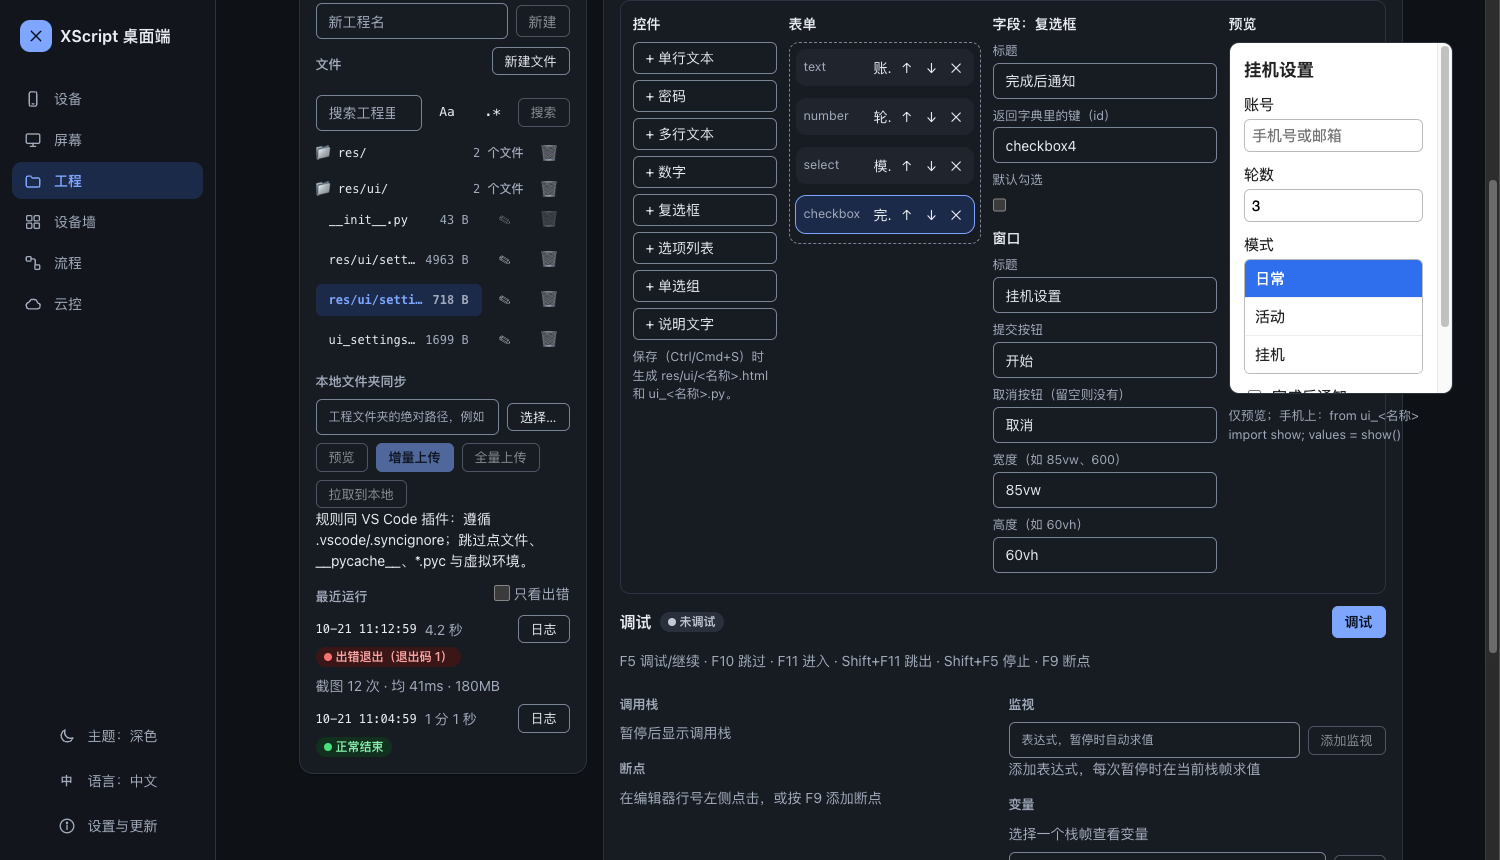
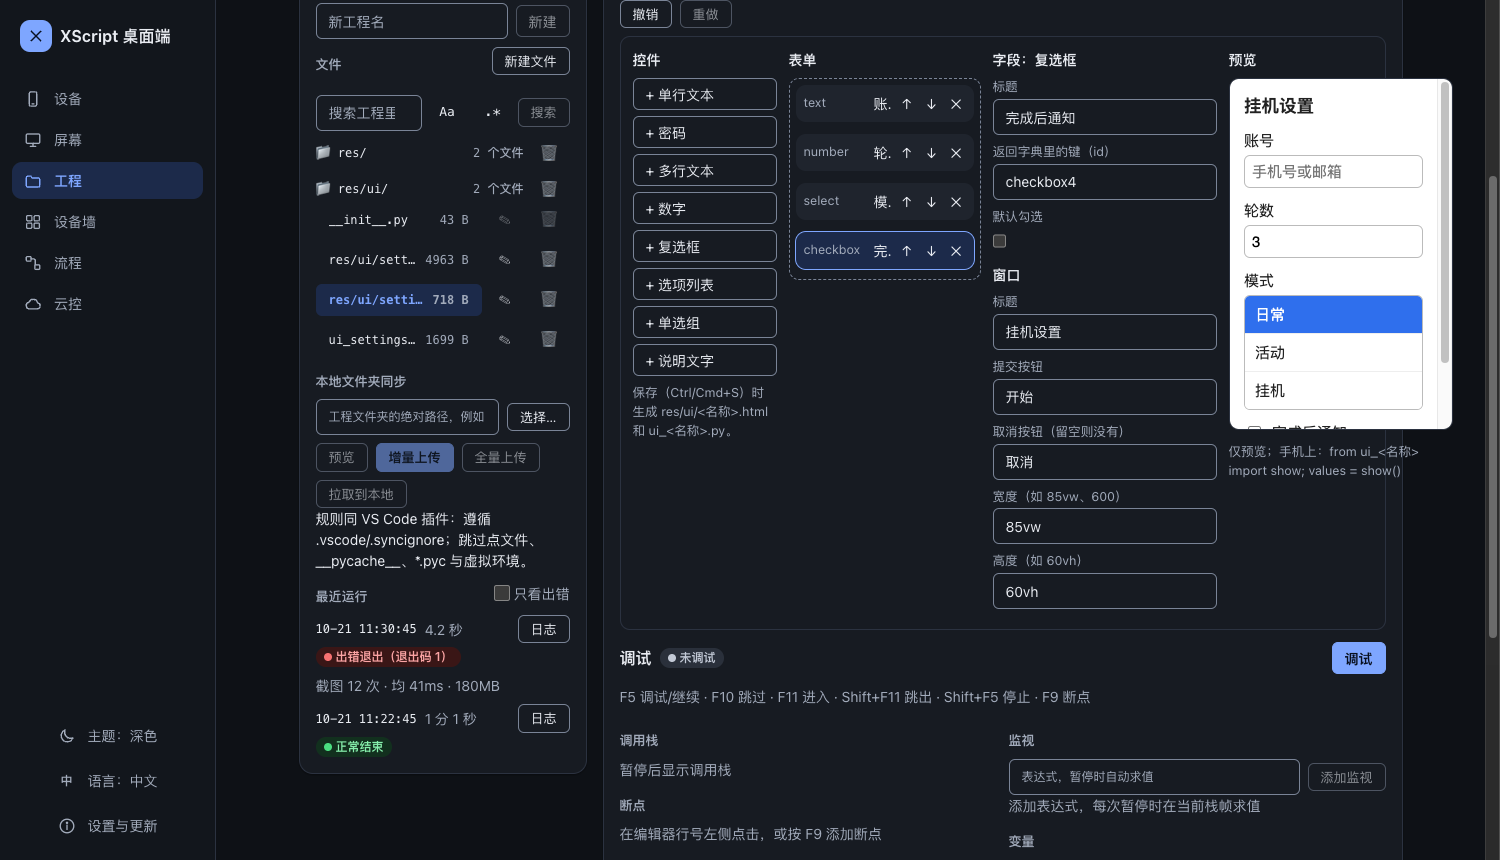
docs(desktop): document designer undo/redo and refresh screenshots

diff --git a/desktop/app/tools/screenshot-ui-designer.js b/desktop/app/tools/screenshot-ui-designer.js
@@ -23,5 +23,5 @@
   await sleep(500);
   if (window.__XS_SAVE__ !== false) btn((b) => b.textContent.trim() === "保存")?.click();
   await sleep(2500);
-  document.querySelector(".ui-designer")?.scrollIntoView({ block: "start" });
+  document.querySelector(".ui-designer")?.parentElement?.scrollIntoView({ block: "start" });
 })();

diff --git a/docs/使用手册.md b/docs/使用手册.md
@@ -573,7 +573,7 @@ yolo export model=runs/detect/train/weights/best.pt format=onnx imgsz=640
 
 ![桌面端工程页：最近运行列出一次出错退出（截图 12 次 · 均 41ms · 180MB）和一次正常结束](images/desktop-recent-runs-light.png)
 
-**界面设计器**：在工程页打开 `res/ui/<名称>.ui.json`（和 VS Code 扩展、网页 IDE 用同一个设计器）时，默认显示设计视图：左边点或拖控件加入表单，中间调整字段顺序或删除，右边改字段属性和窗口标题、按钮、宽高，最右是实时预览。点 **JSON** 切到文本编辑（下方仍有只读预览，文件有问题时列出原因），点 **设计** 切回来。**保存**（Ctrl+S / ⌘S）时同时生成 `res/ui/<名称>.html` 和 `ui_<名称>.py`，脚本里 `from ui_<名称> import show; values = show()` 即可弹出表单；JSON 有错时只保存文本、不生成，并提示原因。新建界面：**新建文件** 输入 `res/ui/<名称>.ui.json`，会带一个空表单。
+**界面设计器**：在工程页打开 `res/ui/<名称>.ui.json`（和 VS Code 扩展、网页 IDE 用同一个设计器）时，默认显示设计视图：左边点或拖控件加入表单，中间调整字段顺序或删除，右边改字段属性和窗口标题、按钮、宽高，最右是实时预览。点 **JSON** 切到文本编辑（下方仍有只读预览，文件有问题时列出原因），点 **设计** 切回来。设计器上方的 **撤销** / **重做**（Ctrl/⌘+Z、Ctrl/⌘+Shift+Z）逐步撤回或重做设计器里的修改，在「JSON」里改过的内容也算一步；在属性输入框里按这些键只作用于那个输入框。改动没保存时，打开别的文件、切换工程或关窗口都会先问你。**保存**（Ctrl+S / ⌘S）时同时生成 `res/ui/<名称>.html` 和 `ui_<名称>.py`，脚本里 `from ui_<名称> import show; values = show()` 即可弹出表单；JSON 有错时只保存文本、不生成，并提示原因。新建界面：**新建文件** 输入 `res/ui/<名称>.ui.json`，会带一个空表单。
 
 ![桌面端工程页：界面设计器，左侧控件、中间字段、右侧属性和预览](images/desktop-ui-designer-light.png)
 
